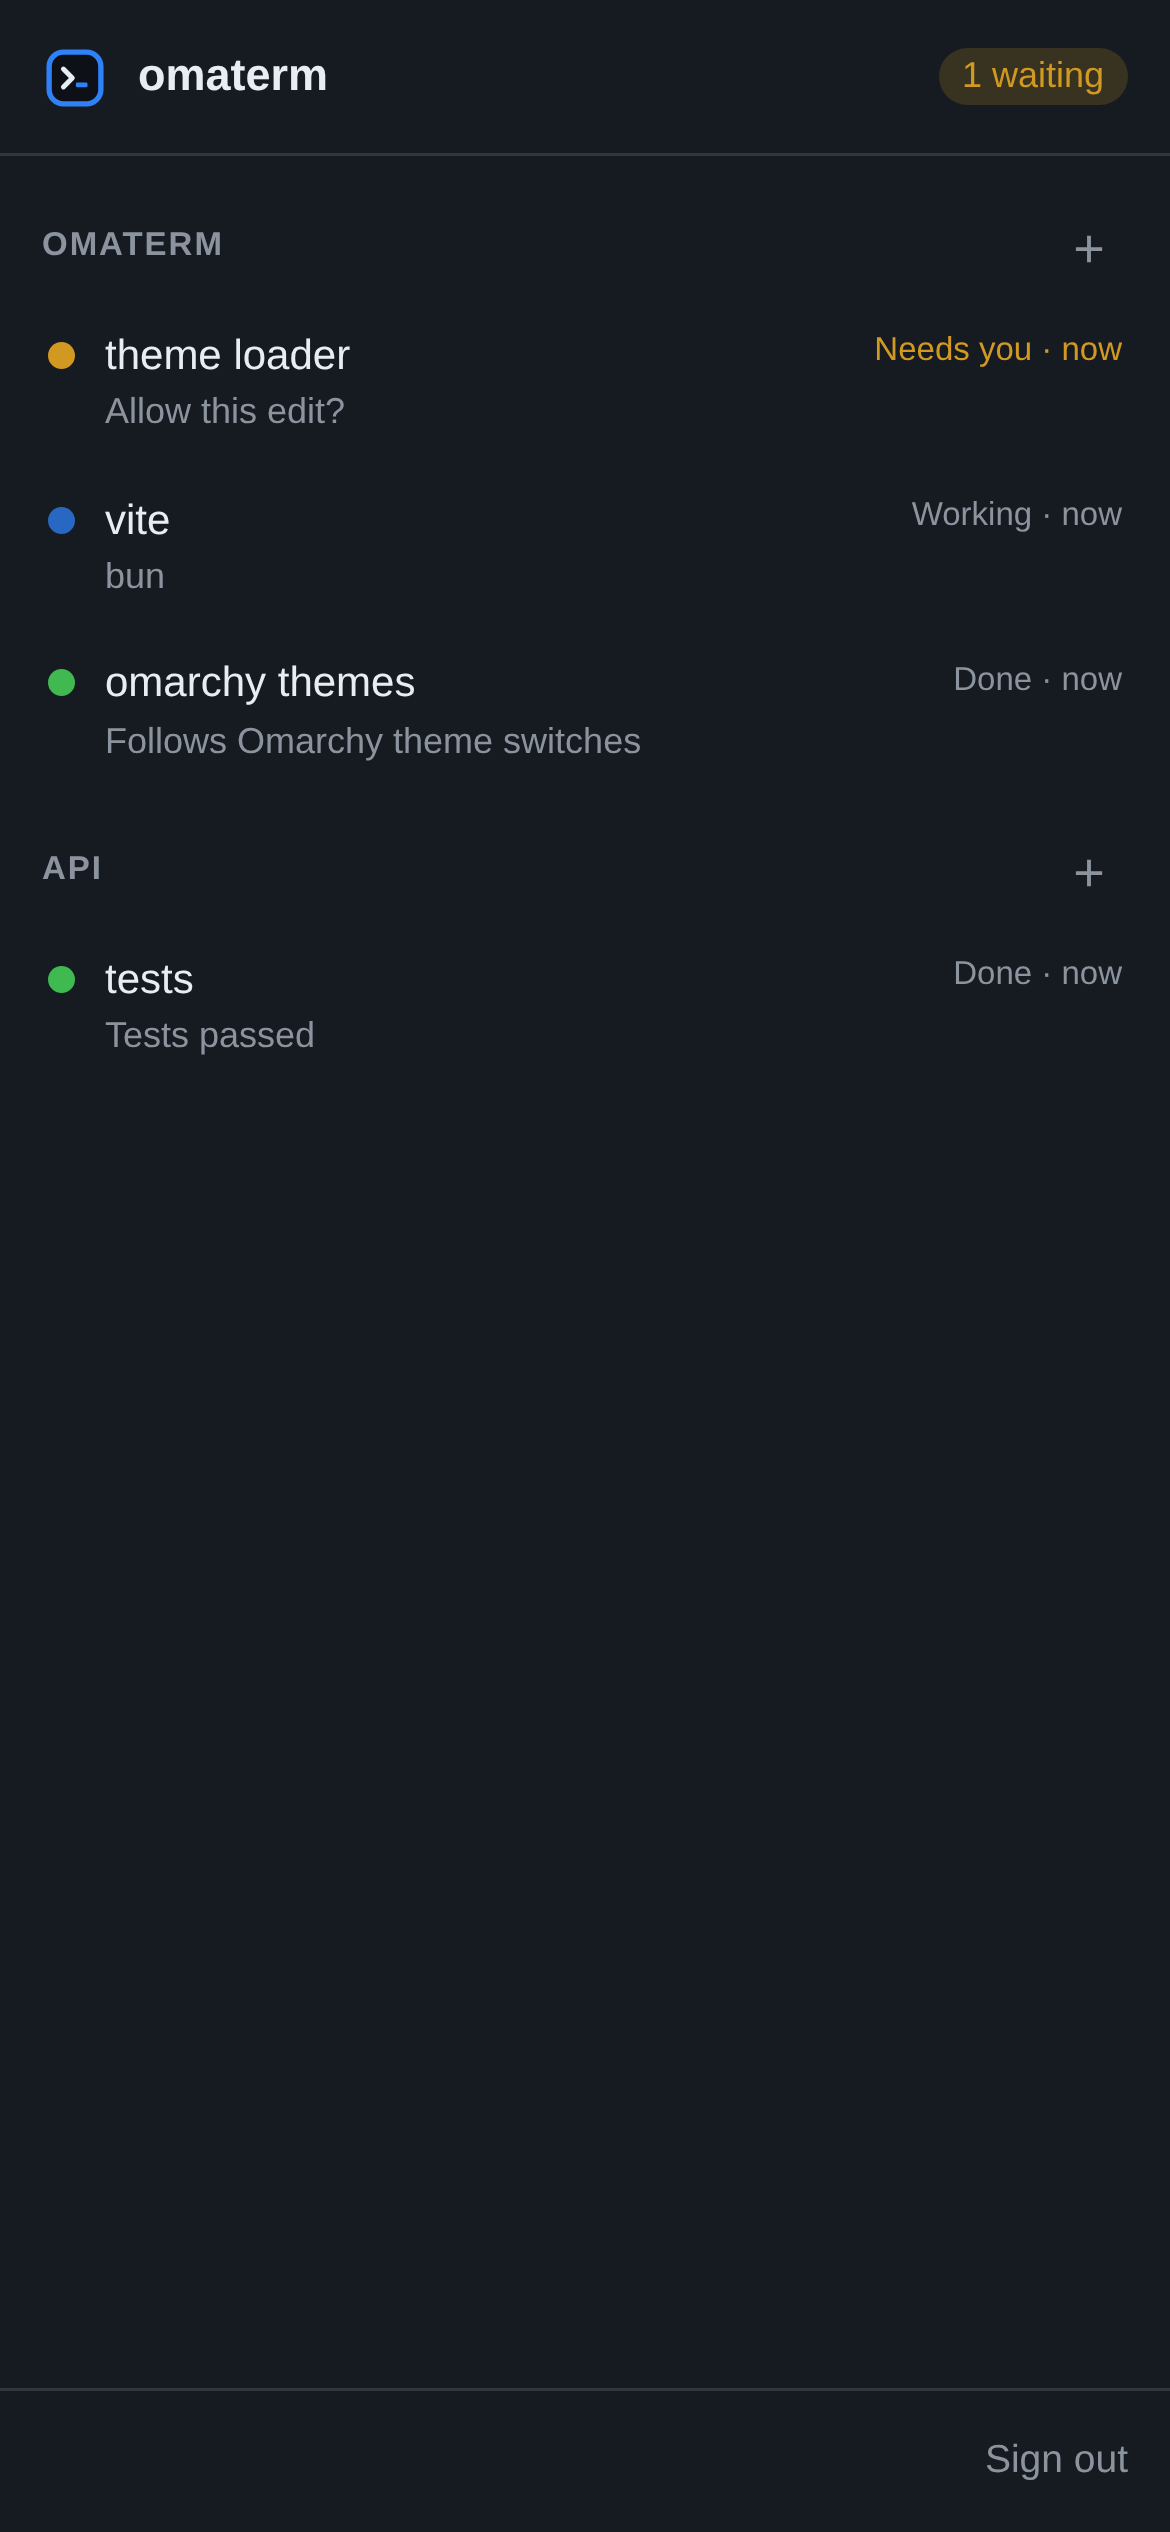
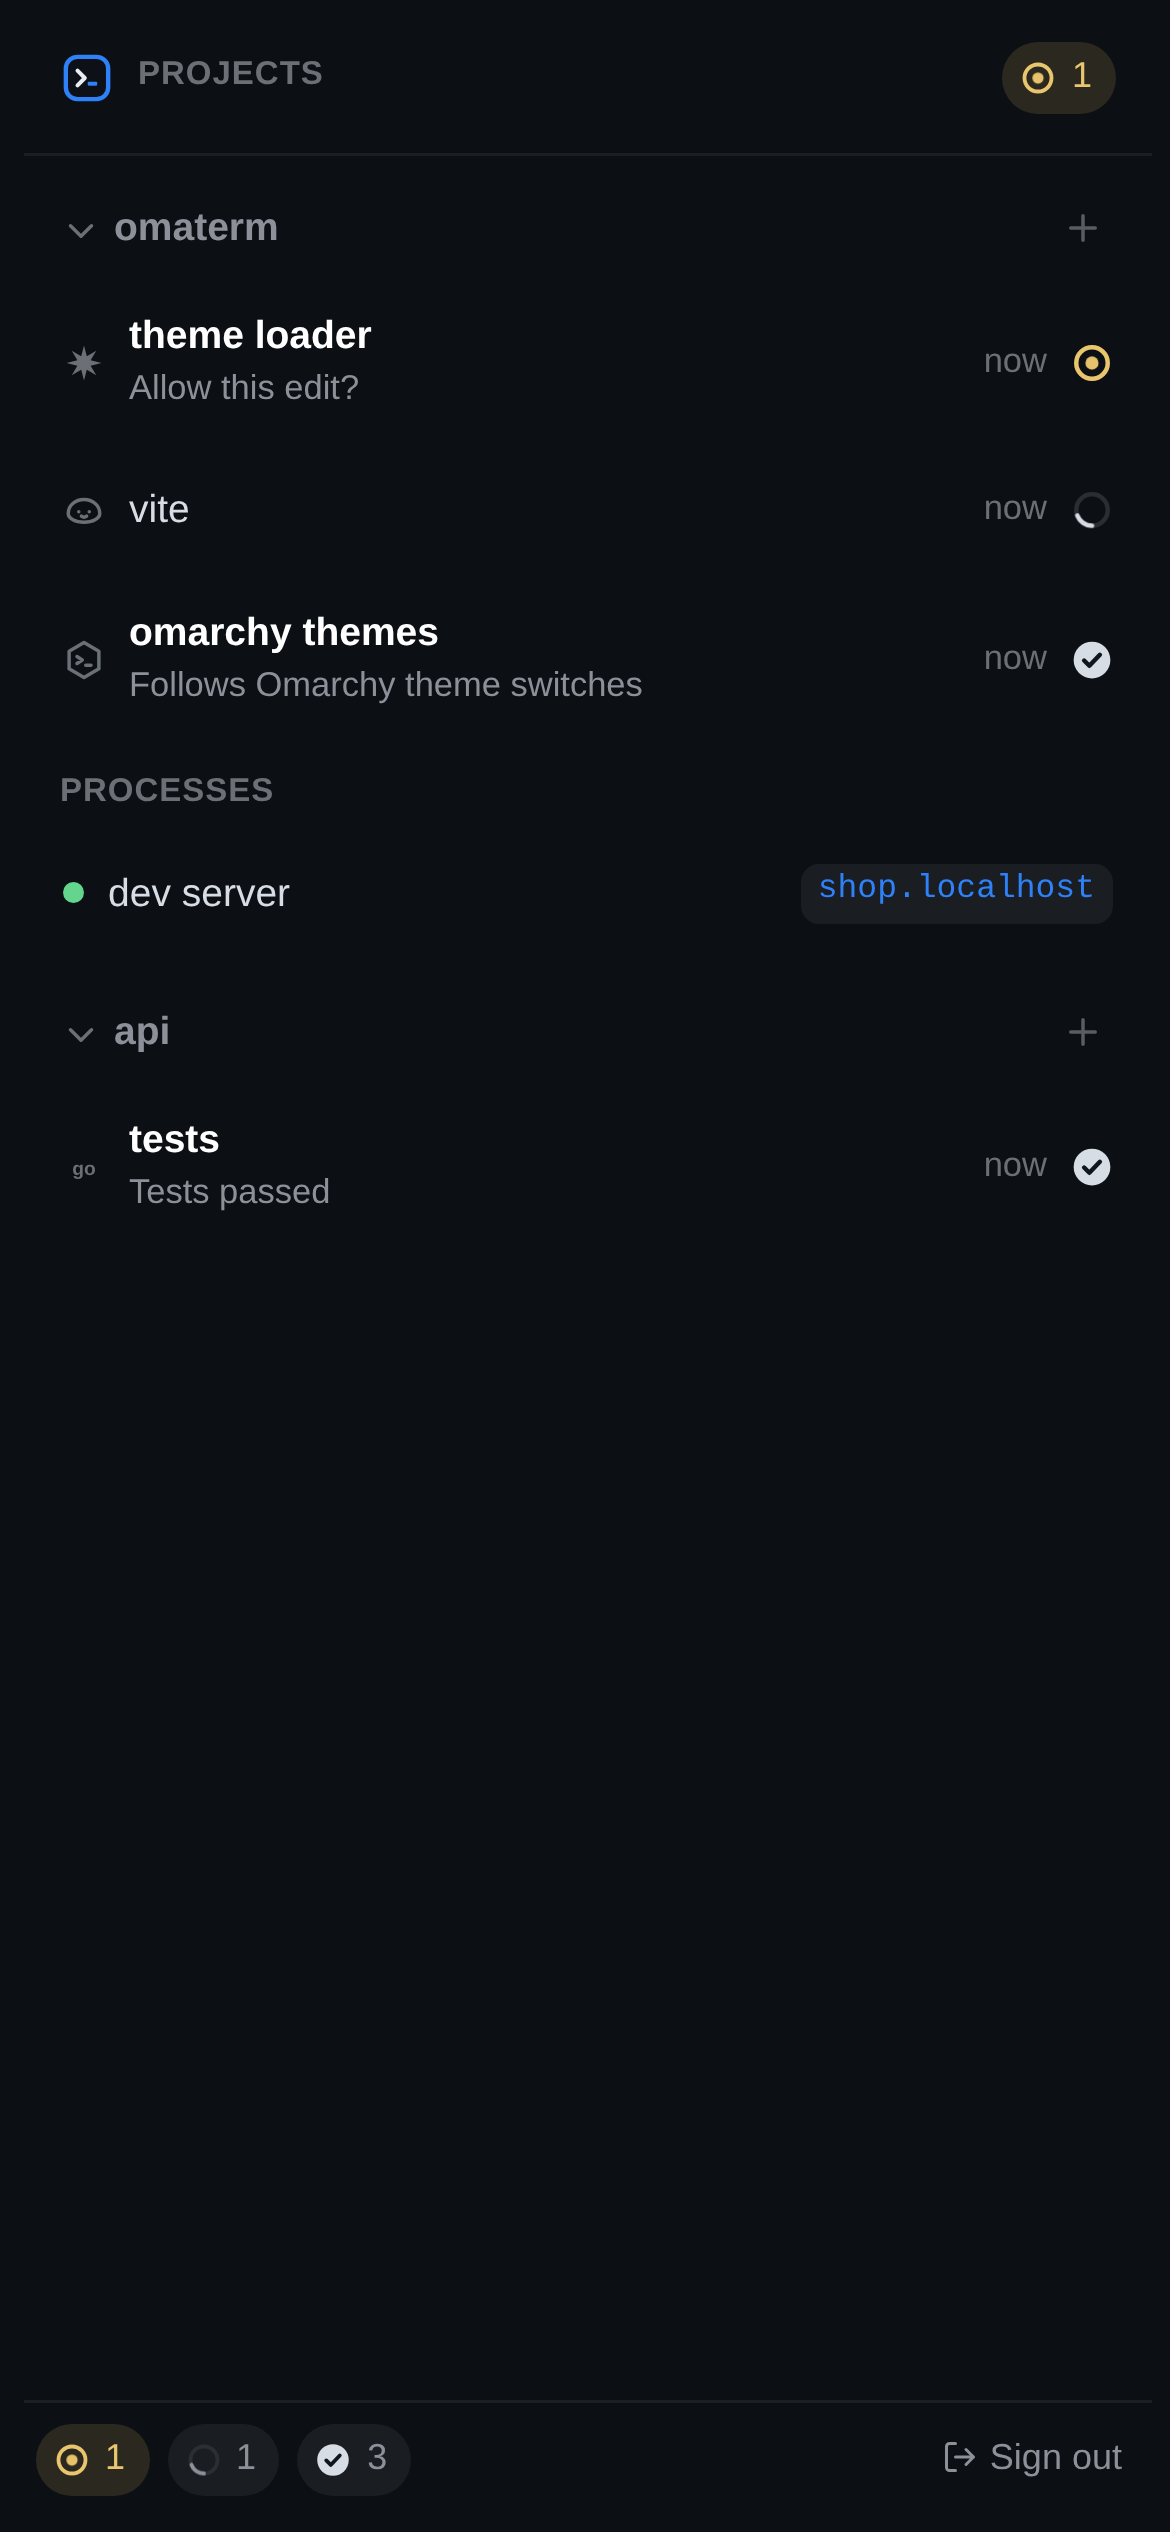
Release 0.12.0
omaterm from your phone (the web page in the app's look, a key bar, a
compose box, tunnels run for you) and Dev URLs (https://<name>.localhost
through the daemon's proxy, set up once, and Share). The website's
pictures are rendered again for the new web page and inspector.

diff --git a/CHANGELOG.md b/CHANGELOG.md
@@ -3,6 +3,56 @@
 The section of a version becomes the release notes of its update, so each
 one is written for the user: what changed, and why it matters.
 
+## 0.12.0
+
+omaterm from your phone, and clean https URLs for your dev servers.
+
+### On your phone
+
+- **The web page looks like omaterm** and follows its theme, light or
+  dark: the sidebar with each session's status and its agent's last
+  word, the project's processes with their status and address, and the
+  terminal as a card.
+- **A key bar you can arrange:** Esc, Tab, ⇧Tab, Ctrl and Alt (tap once
+  for the next key, twice to hold), the arrows, ⌃C, ⌃⏎ and Enter. Edit
+  it to add Home, End, F1–F12, ⌃D, ⌃Z or a text of your own, and order
+  the keys; it is kept per browser.
+- **A compose box** for writing a prompt with the phone's keyboard:
+  Send pastes it and presses Enter, Insert only pastes. A draft survives
+  a reload, and a prompt isn't lost when the connection drops.
+- **Keys arrive as the program asked for them,** so Ctrl+Enter,
+  Shift+Enter and Shift+Tab do what they do in an agent. `omaterm key`
+  takes the new names too.
+- **omaterm runs the tunnel for you:** Settings → Web Access → Reach it
+  from elsewhere, or `omaterm web on --tunnel tailscale|cloudflare`.
+  Tailscale reaches your own devices; Cloudflare gives a public link,
+  still protected by pairing. The link and QR code follow it.
+
+### Dev URLs
+
+- **A process with `url: shop` is served at `https://shop.localhost`**:
+  no port to remember and no certificate warning. omaterm picks a free
+  port and tells it to the process as `PORT`.
+- **Set it up once** in Settings → Dev URLs. It lists what it changes
+  before it asks for your password: omaterm's own certificate
+  authority, which signs for `.localhost` names only, trusted by the
+  system and your browsers, and on Linux ports 443 and up opened to
+  programs. `omaterm proxy setup`, `status` and `uninstall` do the same.
+- **The address shows** in the sidebar, the tab, the process's Edit
+  dialog (a URL field) and `omaterm ps`, and agents are taught to use it.
+- **Share a process** with your devices through Tailscale, or with
+  anyone through a Cloudflare link, from its menu or with
+  `omaterm share`. omaterm leaves the Tailscale serves you made alone.
+
+### Also
+
+- **A project process's program ends with it.** Stopping a process, or
+  the session daemon, could leave its server running.
+- **`omaterm key` waits while you type** in the pane, as `send` does.
+- **A process's name stays readable** beside its address in the
+  sidebar.
+- **A process with a `port` is told it as `PORT`** too.
+
 ## 0.11.0
 
 Project processes, one place to add things, and Antigravity.
